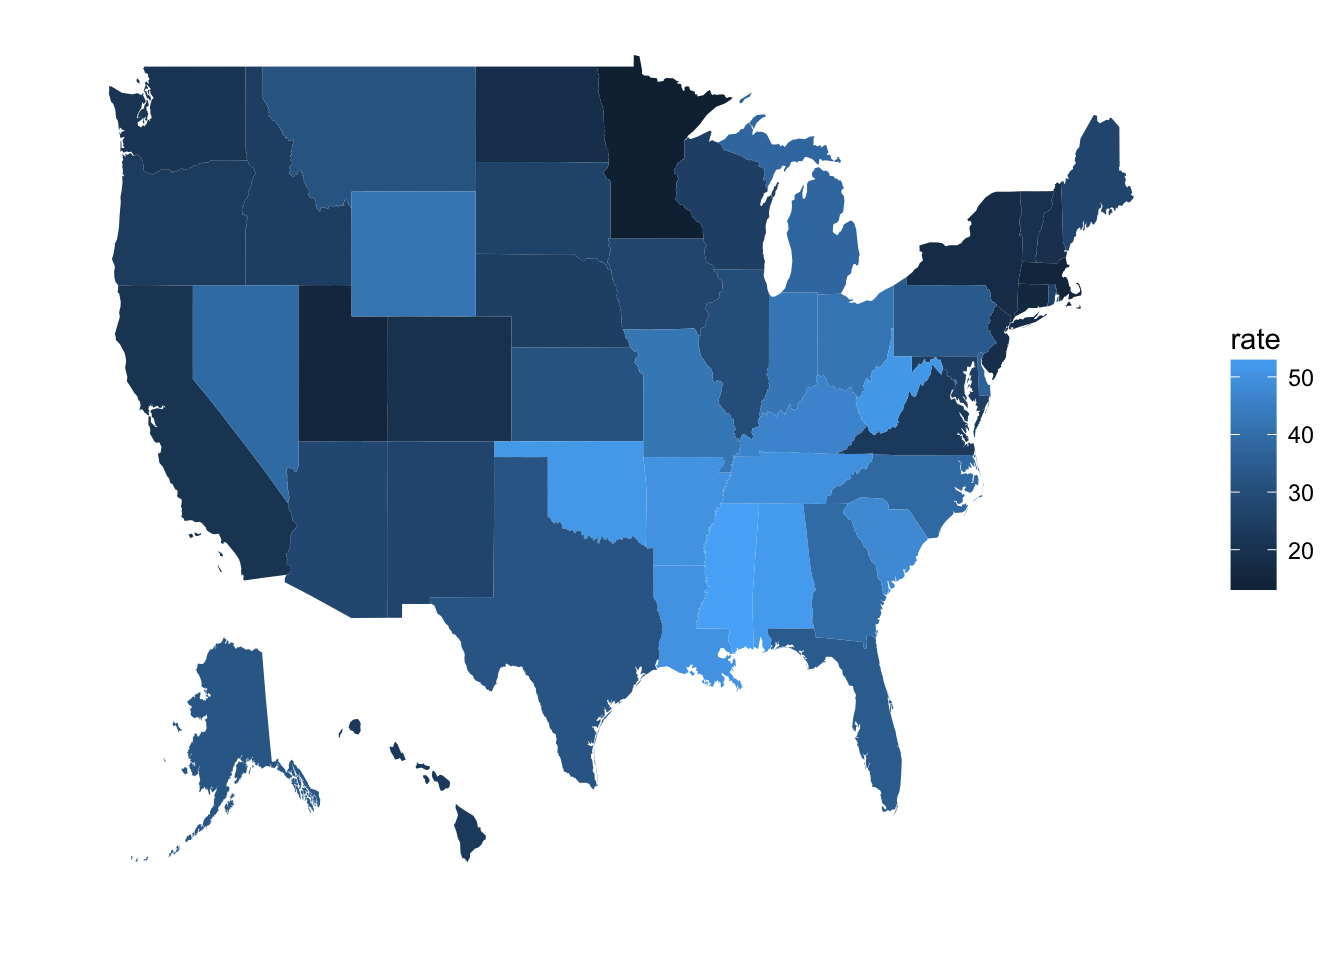
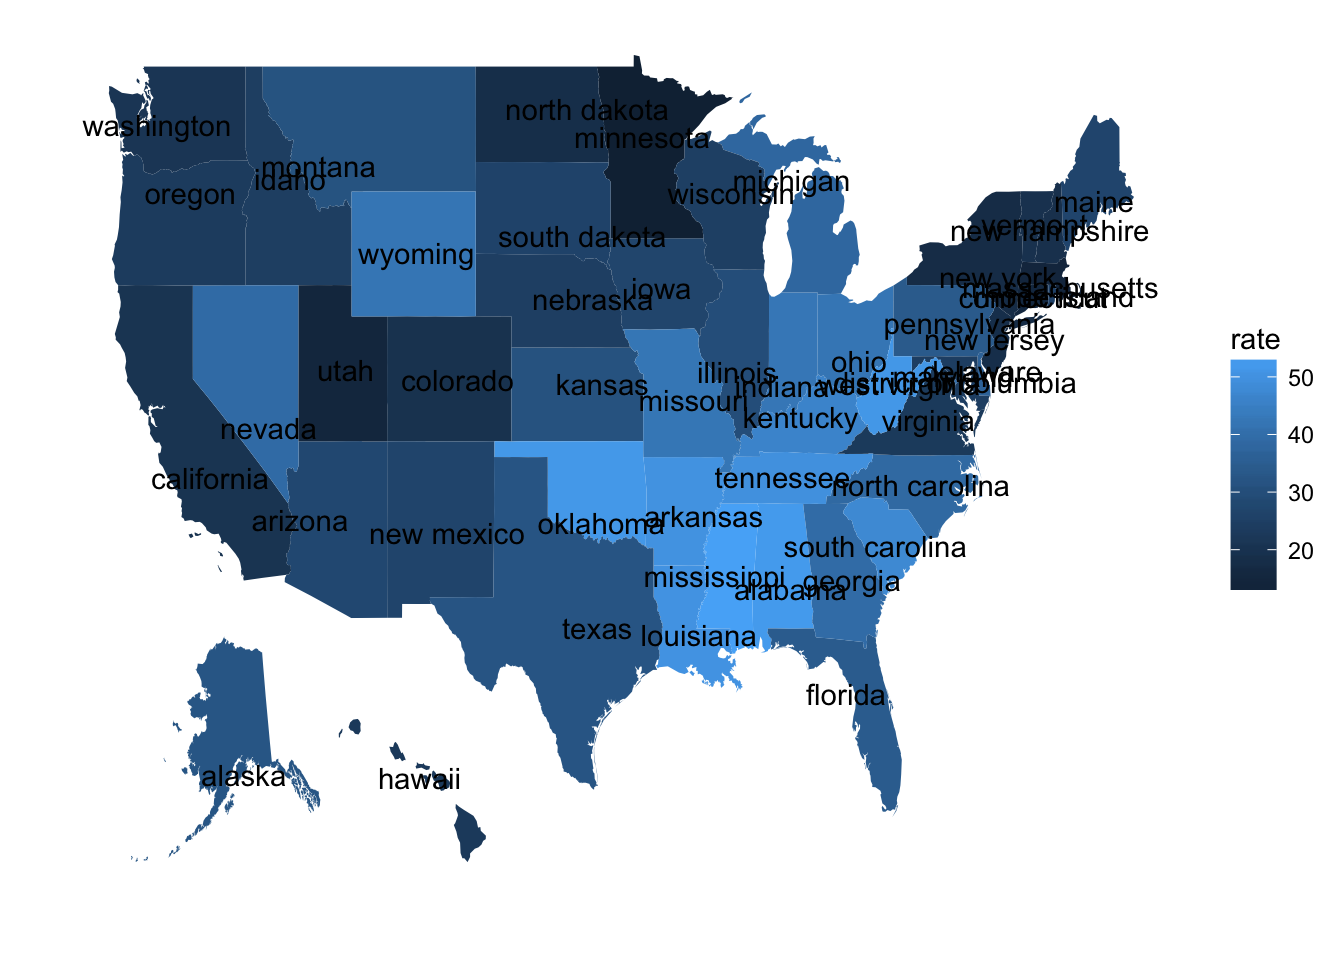
add state names to map

diff --git a/p8105_final_project.html b/p8105_final_project.html
@@ -346,10 +346,9 @@ names(cod_data)</code></pre>
   theme(legend.position = &quot;bottom&quot;)</code></pre>
 <p><img src="p8105_final_project_files/figure-html/yz3306.1-1.png" width="672" /></p>
 <pre class="r"><code>##As shown in the boxplots for all three regions, the rank of the five cause of death remain the same for different localities. For all five causes, the mean percent of death is lower for `Metropolitan` and higher for `Nonmetropolotan`, with respect to `All` Locality.</code></pre>
-<pre class="r"><code>#regress percent of excess death on cause of death, which is a categorical variable.
-#with respect to cancer, the least of the five causes, all 4 have additional percent of death as evaluated by the estimates. The results give statisically significant estimates 
-
-cod_lm_yz1 = lm(percent_excess_death ~cause_of_death, data = cod_data)
+<p>yz3306: As shown in the boxplots for all three regions, the rank of the five cause of death remain the same for different localities. For all five causes, the mean percent of death is lower for <code>Metropolitan</code> and higher for <code>Nonmetropolotan</code>, with respect to <code>All</code> Locality.</p>
+<p>yz3306:regress percent of excess death on cause of death, which is a categorical variable. with respect to cancer, the least of the five causes, all 4 have additional percent of death as evaluated by the estimates. The results give statisically significant estimates .</p>
+<pre class="r"><code>cod_lm_yz1 = lm(percent_excess_death ~cause_of_death, data = cod_data)
 broom::tidy(cod_lm_yz1)</code></pre>
 <pre><code>##                                              term estimate  std.error
 ## 1                                     (Intercept) 21.60686 0.08399078
@@ -395,16 +394,22 @@ broom::tidy(cod_lm_yz3)</code></pre>
   group_by(state) %&gt;% 
   summarise(mean_ped = mean(percent_excess_death)) 
 
-df &lt;- as_data_frame(list(state = unique(fifty_states$id), rate = unique(map_cod_data$mean_ped)))
+map = as.tibble(fifty_states) %&gt;%
+  group_by(id) %&gt;% 
+  summarize(clong = mean(long), clat = mean(lat))
+                   
+                   
+df &lt;- cbind(map, rate = unique(map_cod_data$mean_ped))
 
-ggplot(df, aes(map_id = state)) + 
+ggplot(df, aes(map_id = id)) + 
   geom_map(aes(fill = rate), map = fifty_states) + 
   expand_limits(x = fifty_states$long, y = fifty_states$lat) + 
   labs(x = &quot;&quot;, y = &quot;&quot;) +
   theme(panel.background = element_blank(), 
         axis.text.x = element_blank(), 
         axis.text.y = element_blank(), 
-        axis.ticks = element_blank())</code></pre>
+        axis.ticks = element_blank()) +
+  geom_text(aes(x = clong, y = clat, label = id))</code></pre>
 <p><img src="p8105_final_project_files/figure-html/unnamed-chunk-1-1.png" width="672" /></p>
 </div>
 
